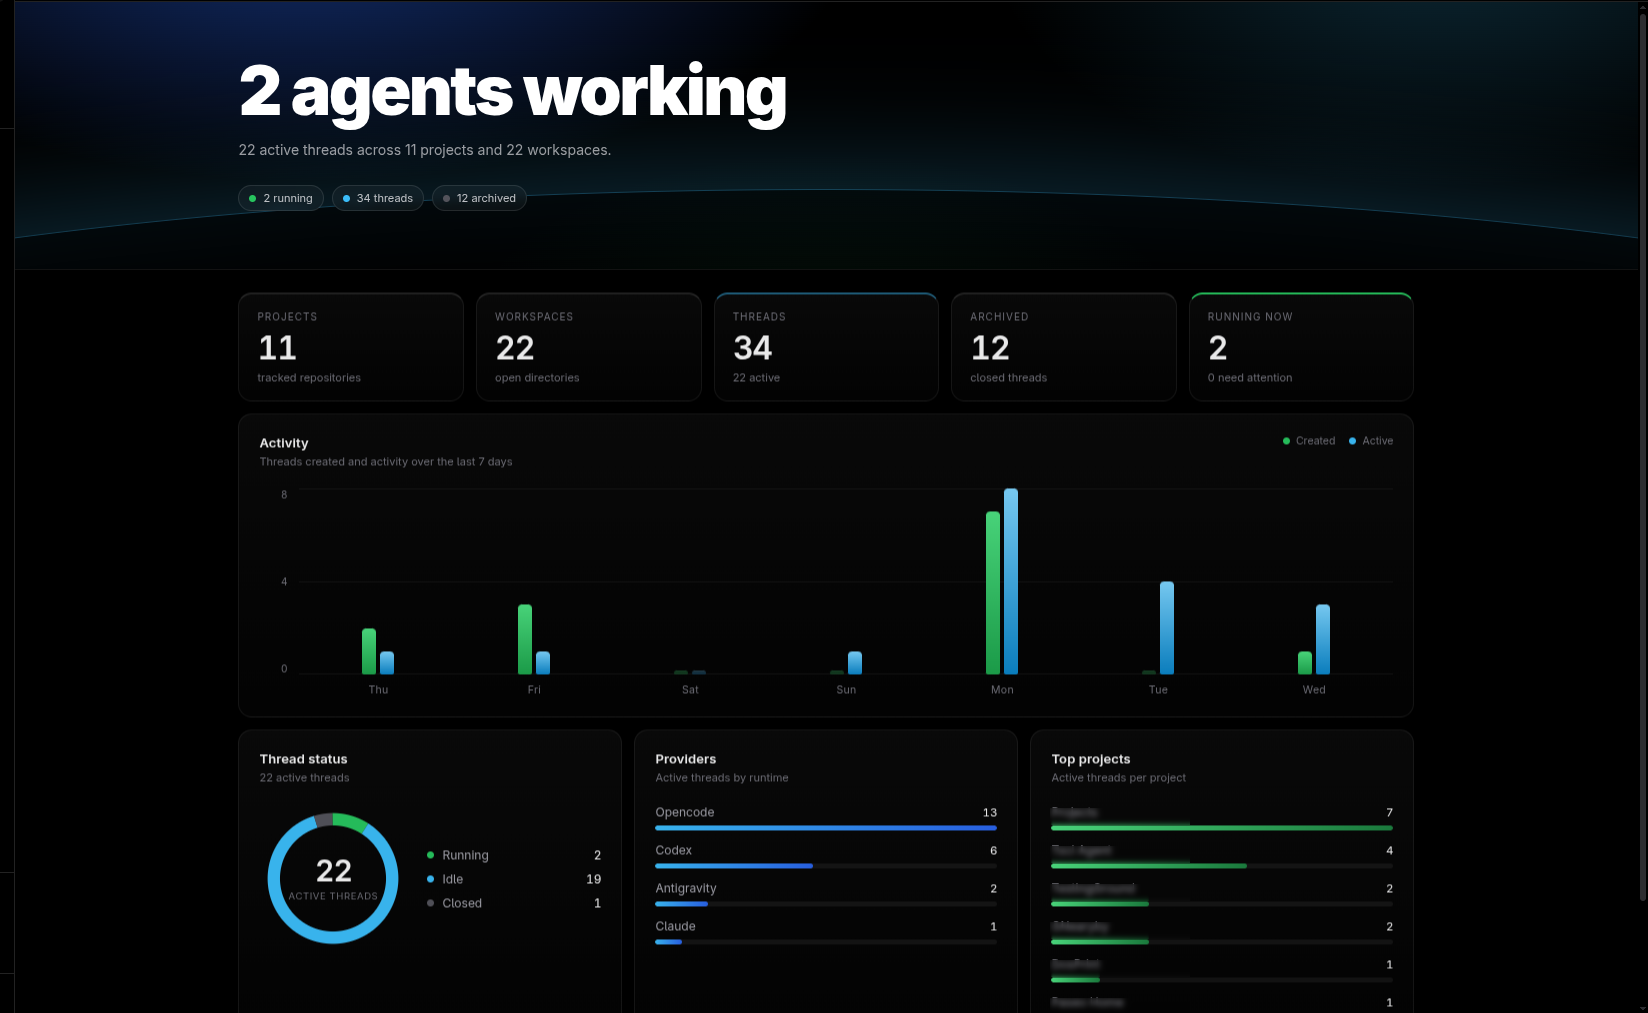
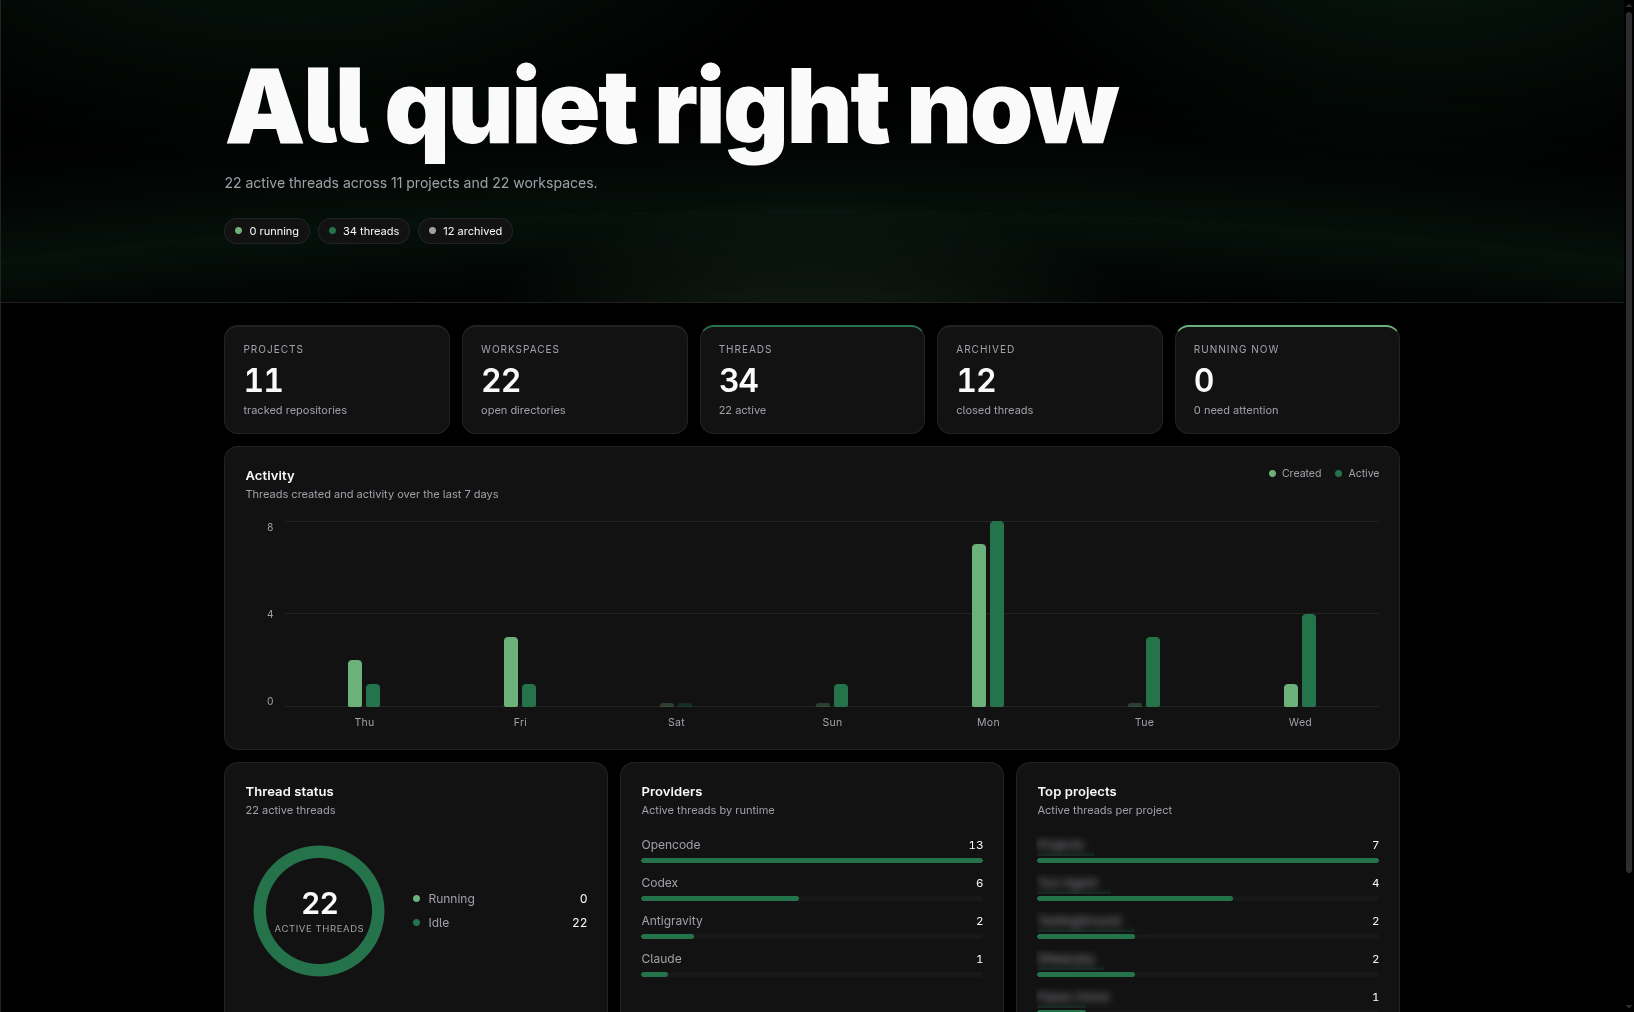
screenshot

diff --git a/client/home-item.tsx b/client/home-item.tsx
@@ -1,7 +1,6 @@
 import type { PluginSidebarItemProps } from "@getpaseo/plugin/client"
 
-export function HomeSidebarItem({ theme, openScreen, currentScreen }: PluginSidebarItemProps) {
-  const active = currentScreen?.screenId === "home"
+export function HomeSidebarItem({ theme, openScreen }: PluginSidebarItemProps) {
   return (
     <div
       style={{
@@ -14,10 +13,10 @@ export function HomeSidebarItem({ theme, openScreen, currentScreen }: PluginSide
     >
       <div
         onMouseEnter={(e) => {
-          if (!active) e.currentTarget.style.background = theme.colors.surface1
+          e.currentTarget.style.background = theme.colors.surface1
         }}
         onMouseLeave={(e) => {
-          if (!active) e.currentTarget.style.background = "transparent"
+          e.currentTarget.style.background = "transparent"
         }}
         style={{
           display: "flex",
@@ -26,7 +25,7 @@ export function HomeSidebarItem({ theme, openScreen, currentScreen }: PluginSide
           width: "100%",
           minHeight: 28,
           borderRadius: 8,
-          background: active ? theme.colors.accent : "transparent",
+          background: "transparent",
         }}
       >
         <button
@@ -56,7 +55,7 @@ export function HomeSidebarItem({ theme, openScreen, currentScreen }: PluginSide
             height="16"
             viewBox="0 0 24 24"
             fill="none"
-            stroke={active ? theme.colors.accentForeground : theme.colors.foregroundMuted}
+            stroke={theme.colors.foregroundMuted}
             strokeWidth="1.5"
             strokeLinecap="round"
             strokeLinejoin="round"
@@ -69,7 +68,7 @@ export function HomeSidebarItem({ theme, openScreen, currentScreen }: PluginSide
             style={{
               fontSize: 16,
               fontWeight: 400,
-              color: active ? theme.colors.accentForeground : theme.colors.foregroundMuted,
+              color: theme.colors.foregroundMuted,
               flexShrink: 1,
               whiteSpace: "nowrap",
               overflow: "hidden",

diff --git a/client/home-screen.tsx b/client/home-screen.tsx
@@ -752,7 +752,7 @@ export function HomeScreen({ theme }: PluginScreenProps) {
         <div
           style={{
             display: "flex",
-            justifyContent: "space-between",
+            justifyContent: "flex-end",
             alignItems: "center",
             gap: 12,
             flexWrap: "wrap",
@@ -762,7 +762,6 @@ export function HomeScreen({ theme }: PluginScreenProps) {
             letterSpacing: 0.3,
           }}
         >
-          <span>Counts only · no thread titles</span>
           <span>Refreshes every 5 seconds</span>
         </div>
       </main>
